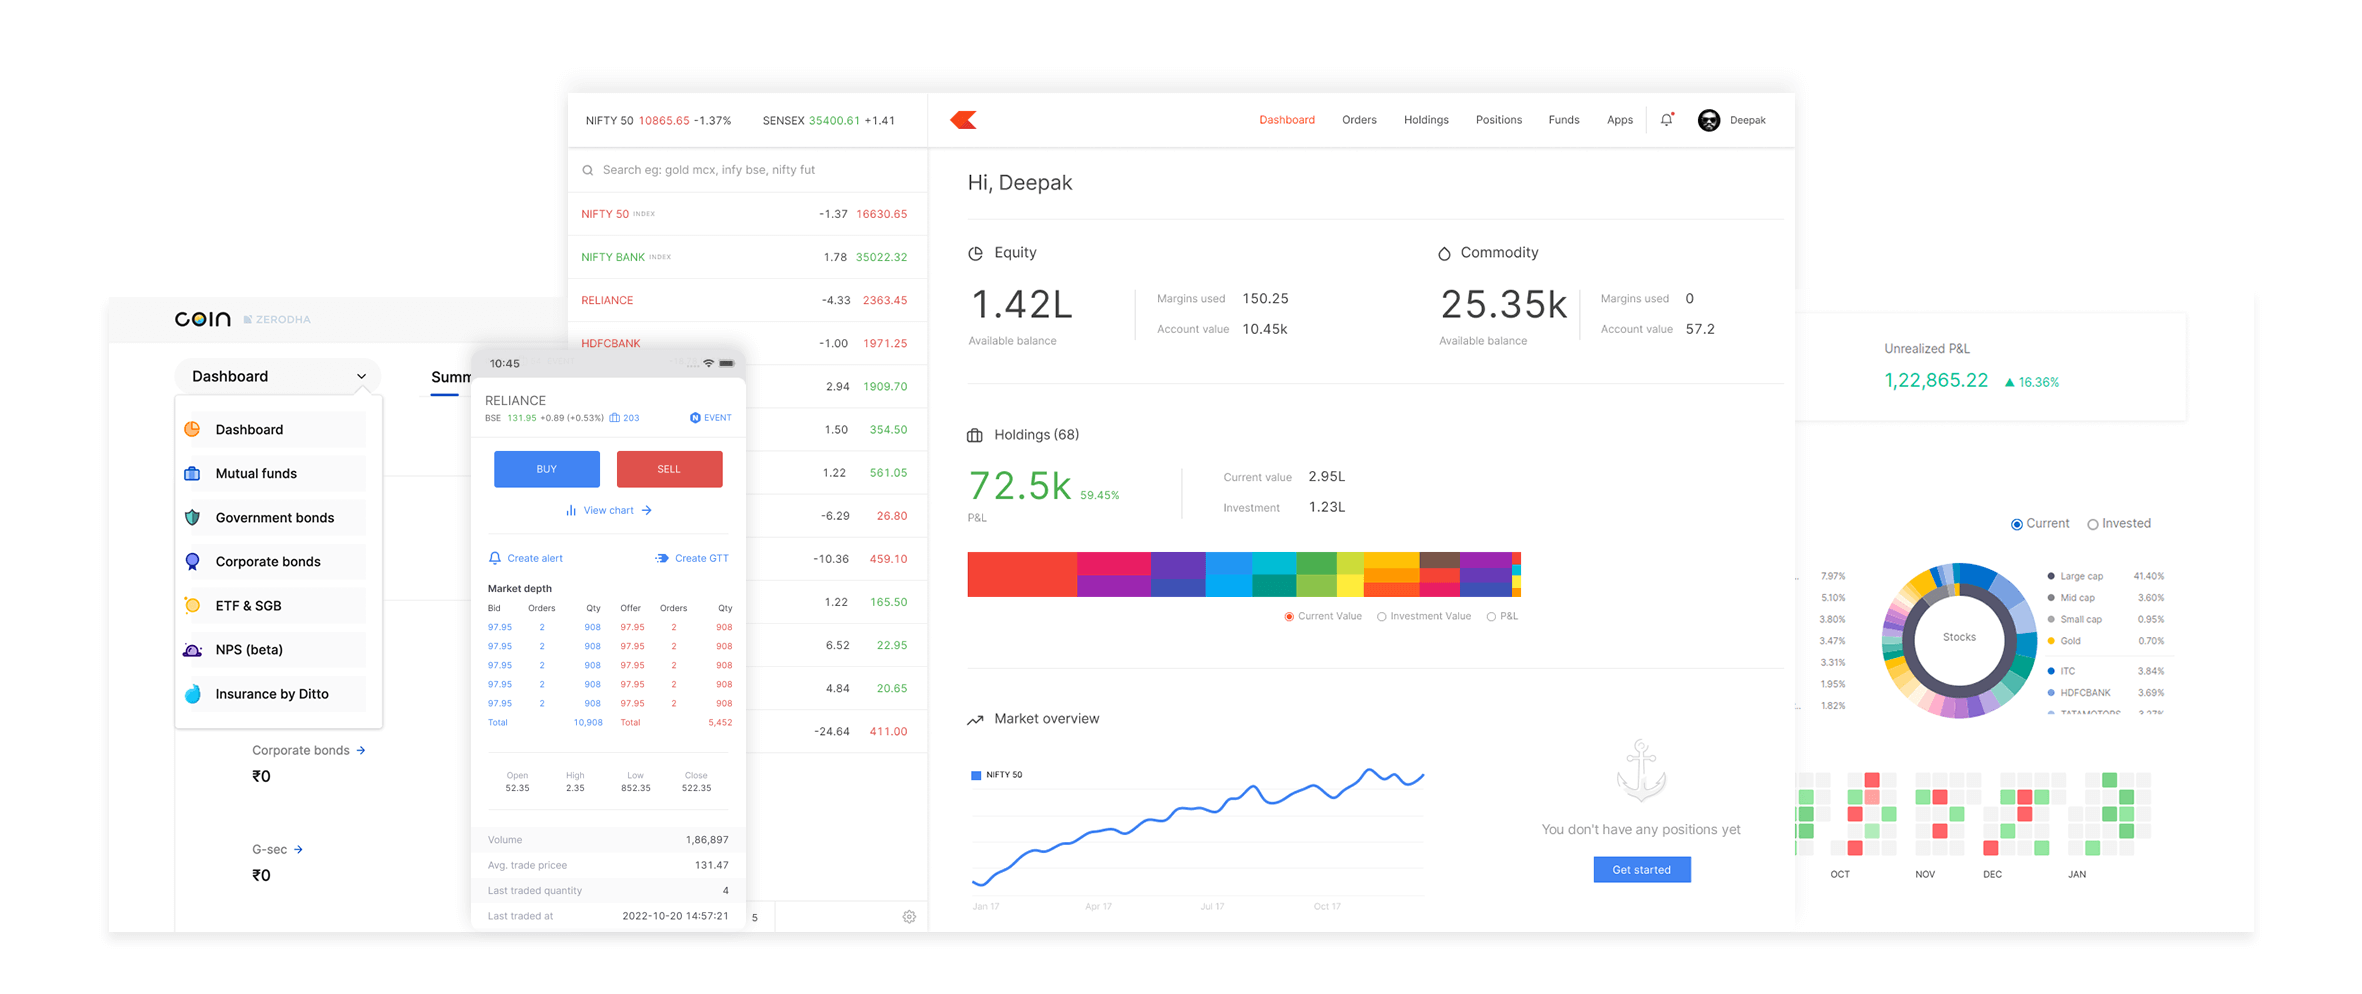
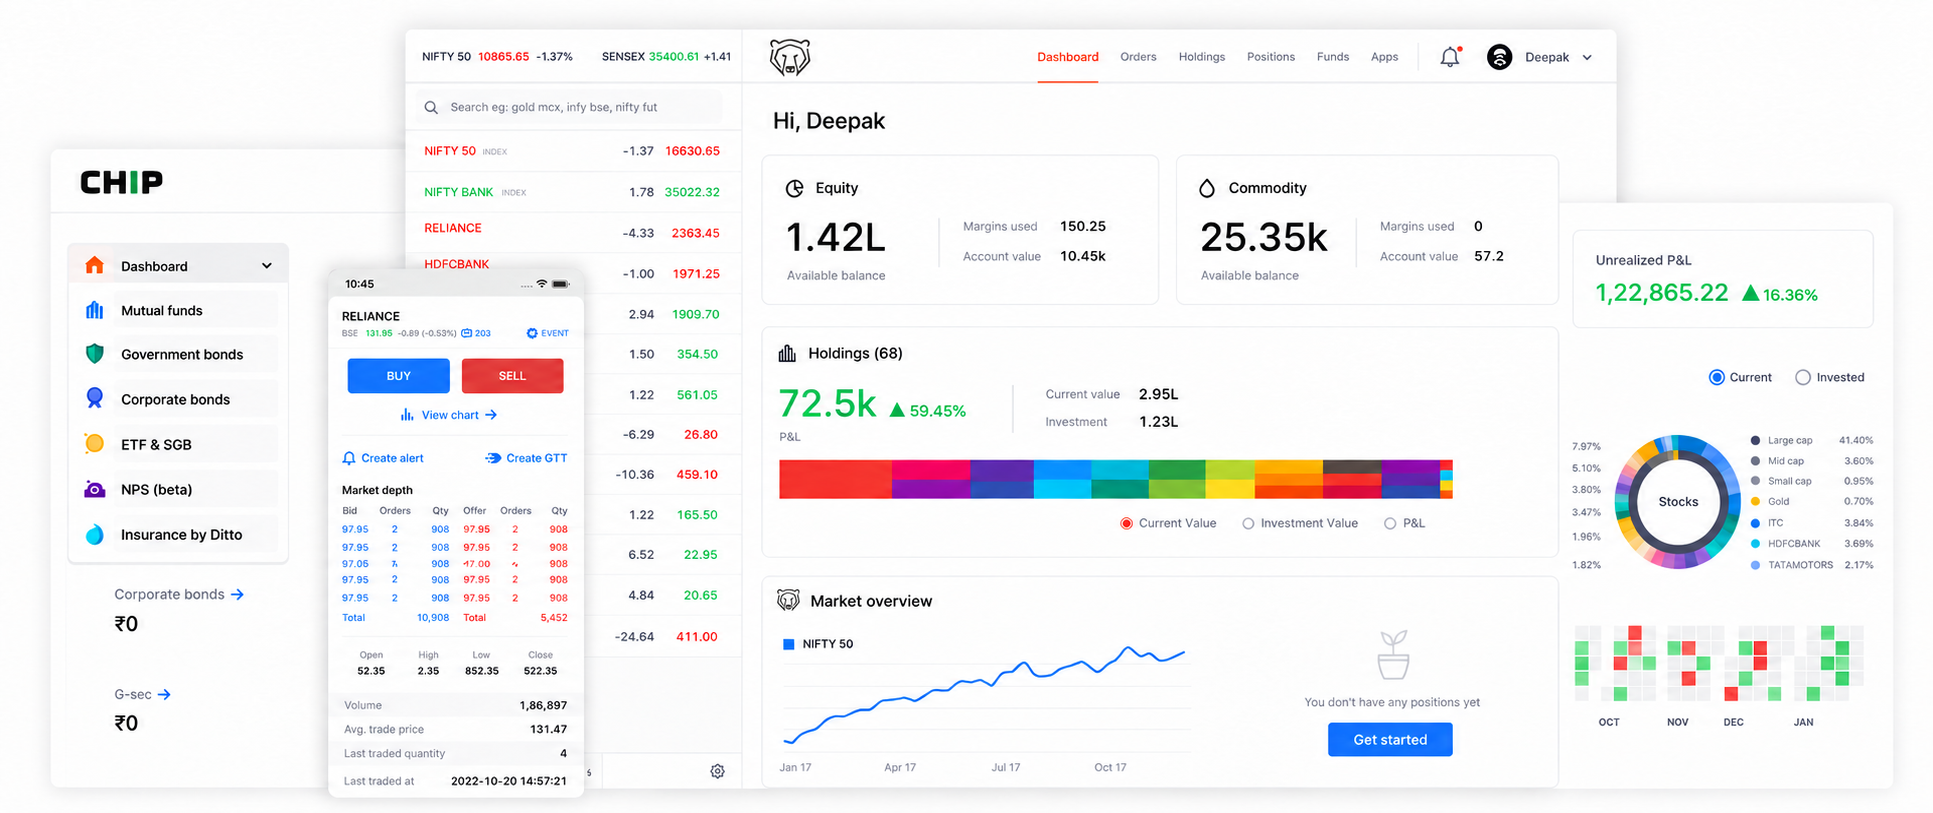
home_page

diff --git a/frontend/src/landingpage/home/Stats.jsx b/frontend/src/landingpage/home/Stats.jsx
@@ -1,8 +1,47 @@
-import React from 'react';
+import React from "react";
 function Stats() {
-    return ( <h1>
-        Stats
-    </h1> );
+  return (
+    <div className="container mt-5 p-5">
+      <div className="row p-5">
+        <div style={{width:"50%"}} className=" p-5 col-6  ">
+          <h2 className="mb-5">Trust with confidence</h2>
+          <h4>Customer-first always</h4>
+          <p className="text-muted">
+            That's why 1.3+ crore customers trust CandleEdge with 3.5+ lakh
+            crore rupees worth of equity investments.
+          </p>
+          <h4>No spam or gimmicks</h4>
+          <p className="text-muted">
+            No gimmicks, spam, "gamification", or annoying push notifications.
+            High quality apps that you use at your pace, the way you like. Our
+            philosophies.
+          </p>
+          <h4>The CandleEdge universe</h4>
+          <p className="text-muted">
+            Not just an app, but a whole ecosystem. Our investments in 30+
+            fintech startups offer you tailored services specific to your needs.
+          </p>
+          <h4>Do better with money</h4>
+          <p className="text-muted">
+            With initiatives like Nudge and Kill Switch, we don't just
+            facilitate transactions, but actively help you do better with your
+            money.
+          </p>
+        </div>
+        <div className="col-6 p-5">
+          <img className="" src="media/images/ecosystem.png" alt="" style={{width:"100%"}} />
+          <div className="text-center ms-5 ">
+            <a style={{textDecoration:"none"}} className="mx-5" href="">
+              Explore our products <i class="fa-solid fa-arrow-right"></i>
+            </a>
+            <a style={{textDecoration:"none"}} href="">
+              Try BearClaw Demo <i class="fa-solid fa-arrow-right"></i>
+            </a>
+          </div>
+        </div>
+      </div>
+    </div>
+  );
 }
 
 export default Stats;

diff --git a/frontend/src/landingpage/home/Pricing.jsx b/frontend/src/landingpage/home/Pricing.jsx
@@ -1,8 +1,36 @@
-import React from 'react';
+import React from "react";
 function Pricing() {
-    return ( 
-        <h1>Pricing</h1>
-     );
+  return (
+    <div className="container mt-5 mb-5">
+      <div className="row">
+        <div className="col-4">
+          <h2 className="mb-3">Unbeatable pricing</h2>
+          <p>
+            We pioneered the concept of discount broking and price transparency
+            in India. Flat fees and no hidden charges.
+          </p>
+          <a style={{ textDecoration: "none" }} href="">
+            See pricing <i class="fa-solid fa-arrow-right"></i>
+          </a>
+        </div>
+        <div className="col-2"></div>
+        <div className="col-6">
+          <div className="row text-center">
+            <div  className="col p-3 border">
+              <h1 className="mb-3">₹0</h1>
+              <p>Free equity delivery and <br/>direct mutual funds</p>
+            </div>
+            <div className="col p-3 border">
+                <h1 className="mb-3">₹20</h1>
+                <p>
+                    Intraday and F&O
+                </p>
+            </div>
+          </div>
+        </div>
+      </div>
+    </div>
+  );
 }
 
 export default Pricing;

diff --git a/frontend/src/landingpage/home/Education.jsx b/frontend/src/landingpage/home/Education.jsx
@@ -1,8 +1,32 @@
-import React from 'react';
+import React from "react";
 function Education() {
-    return ( 
-        <h1>Education</h1>
-     );
+  return (
+    <div className="container">
+      <div className="row">
+        <div className="col">
+            <img style={{width:"70%"}}src="media/images/education.svg" alt="" />
+        </div>
+        <div className="col">
+          <h2 className="mb-3">Free and open market education</h2>
+          <p>
+            Varsity, the largest online stock market education book in the world
+            covering everything from the basics to advanced trading.
+          </p>
+          <a style={{ textDecoration: "none" }} href="">
+            Varsity
+            <i class="fa-solid fa-arrow-right"></i>
+          </a>
+          <p className="mt-5">
+            TradingQ&A, the most active trading and investment community in
+            India for all your market related queries.
+          </p>
+          <a style={{ textDecoration: "none" }} href="">
+            TradingQ&A<i class="fa-solid fa-arrow-right"></i>
+          </a>
+        </div>
+      </div>
+    </div>
+  );
 }
 
 export default Education;

diff --git a/frontend/src/landingpage/home/Awards.jsx b/frontend/src/landingpage/home/Awards.jsx
@@ -4,7 +4,7 @@ function Awards() {
         <div className='container mt-5'>
             <div className="row">
                 <div className="col-lg-6 col-sm-12">
-                <img src="media/images/largestBroker.svg" alt="" />
+                <img className='mb-5' src="media/images/largestBroker.svg" alt="" />
                 </div>
                 <div style={{width:'42%'}} className="col-lg-6">
                     <h1>Largest stock broker in India</h1>
